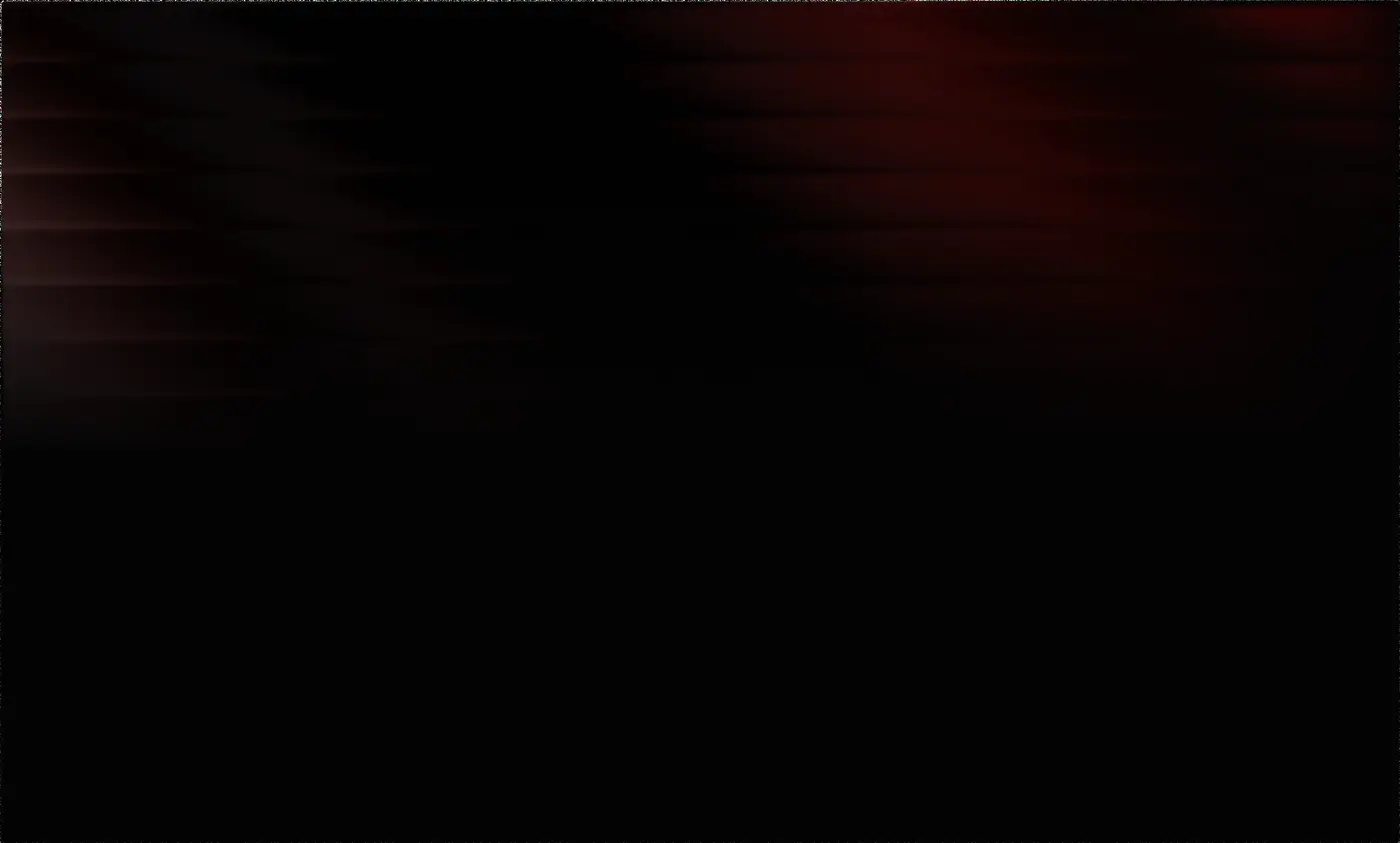
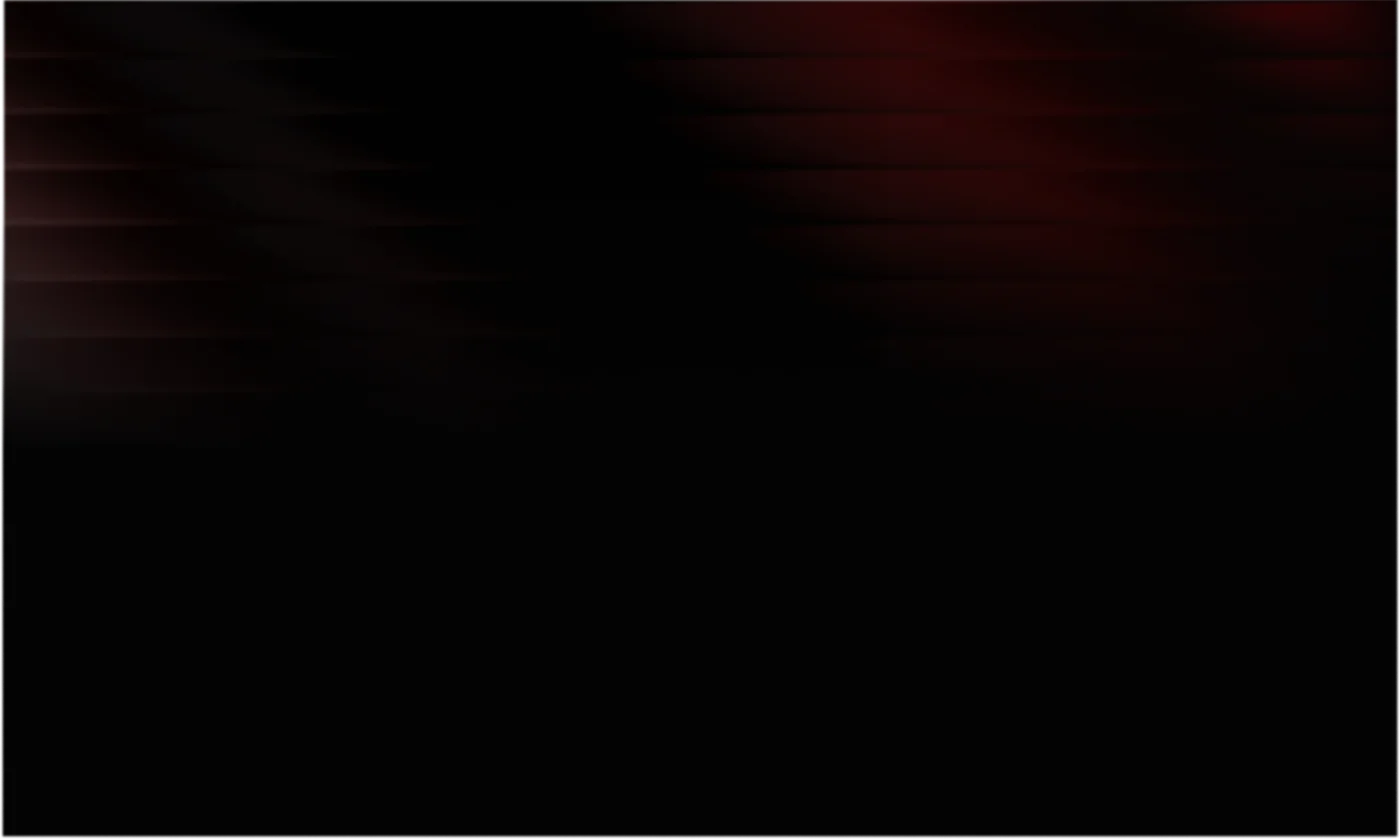
Remove top noise artifact line from hero background image (bg.png / bg.webp)

Changed region(s): [[0.0, 0.0, 1.0, 1.0], [0.0, 0.0, 0.0307, 0.4958]]

diff --git a/app/(landing)/components/LandingInteractions.tsx b/app/(landing)/components/LandingInteractions.tsx
@@ -27,7 +27,7 @@ interface CoverFlowCard {
 const COVERFLOW_CARDS: CoverFlowCard[] = [
   {
     videoSrc: "./assets/clients/avinash-salon.mp4",
-    posterSrc: "./assets/clients/avinash-salon.jpg",
+    posterSrc: "./assets/clients/avinash-salon.webp",
     client: "Salons",
     stat: "2x Leads in 24hrs",
     video: "https://www.instagram.com/reels/DY3bF7xPJ5_/",
@@ -41,14 +41,14 @@ const COVERFLOW_CARDS: CoverFlowCard[] = [
   },
   {
     videoSrc: "./assets/clients/parthu.mp4",
-    posterSrc: "./assets/clients/parthu.png",
+    posterSrc: "./assets/clients/parthu.webp",
     client: "Interiors",
     stat: "1.2M Organic Reach",
     video: "https://drive.google.com/file/d/1yD3ofnBBHKVUkblmLgTm8qYk0A82hK61/view?usp=sharing",
   },
   {
     videoSrc: "./assets/clients/jak-interiors.mp4",
-    posterSrc: "./assets/clients/jak-interiors.jpeg",
+    posterSrc: "./assets/clients/jak-interiors.webp",
     client: "Interiors",
     stat: "4.2x Engagement Lift",
     video: "https://www.youtube.com/embed/ziM_K-n6svk",
@@ -148,10 +148,9 @@ export default function LandingInteractions() {
         if (isVideo) {
           const poster = data.posterSrc || "";
           slide.innerHTML = `
-            <img src="${poster}" alt="${data.client}" fetchpriority="high" decoding="async" draggable="false" class="ls-curved-carousel__media ls-curved-carousel__poster" style="position:absolute; inset:0; width:100%; height:100%; object-fit:cover; border-radius:inherit; z-index:0; transform:translateZ(0);" />
-            <video loop muted playsinline autoplay preload="none" poster="${poster}" aria-label="${data.client} Reel" class="ls-curved-carousel__media ls-curved-carousel__video" style="position:absolute; inset:0; width:100%; height:100%; object-fit:cover; border-radius:inherit; opacity:0; transition:opacity 0.3s cubic-bezier(0.16, 1, 0.3, 1); z-index:1; transform:translateZ(0);">
+            <img src="${poster}" alt="${data.client}" draggable="false" class="ls-curved-carousel__media ls-curved-carousel__poster" style="position:absolute; inset:0; width:100%; height:100%; object-fit:cover; border-radius:inherit; z-index:0; transform:translateZ(0);" />
+            <video loop muted playsinline autoplay preload="auto" poster="${poster}" class="ls-curved-carousel__media ls-curved-carousel__video" style="position:absolute; inset:0; width:100%; height:100%; object-fit:cover; border-radius:inherit; opacity:0; transition:opacity 0.3s cubic-bezier(0.16, 1, 0.3, 1); z-index:1; transform:translateZ(0);">
               <source src="${data.videoSrc}" type="video/mp4" />
-              <track kind="captions" src="" label="No captions" />
             </video>
             <div class="ls-curved-carousel__label" style="z-index:2;">
               <span class="ls-curved-carousel__client">${data.client}</span>